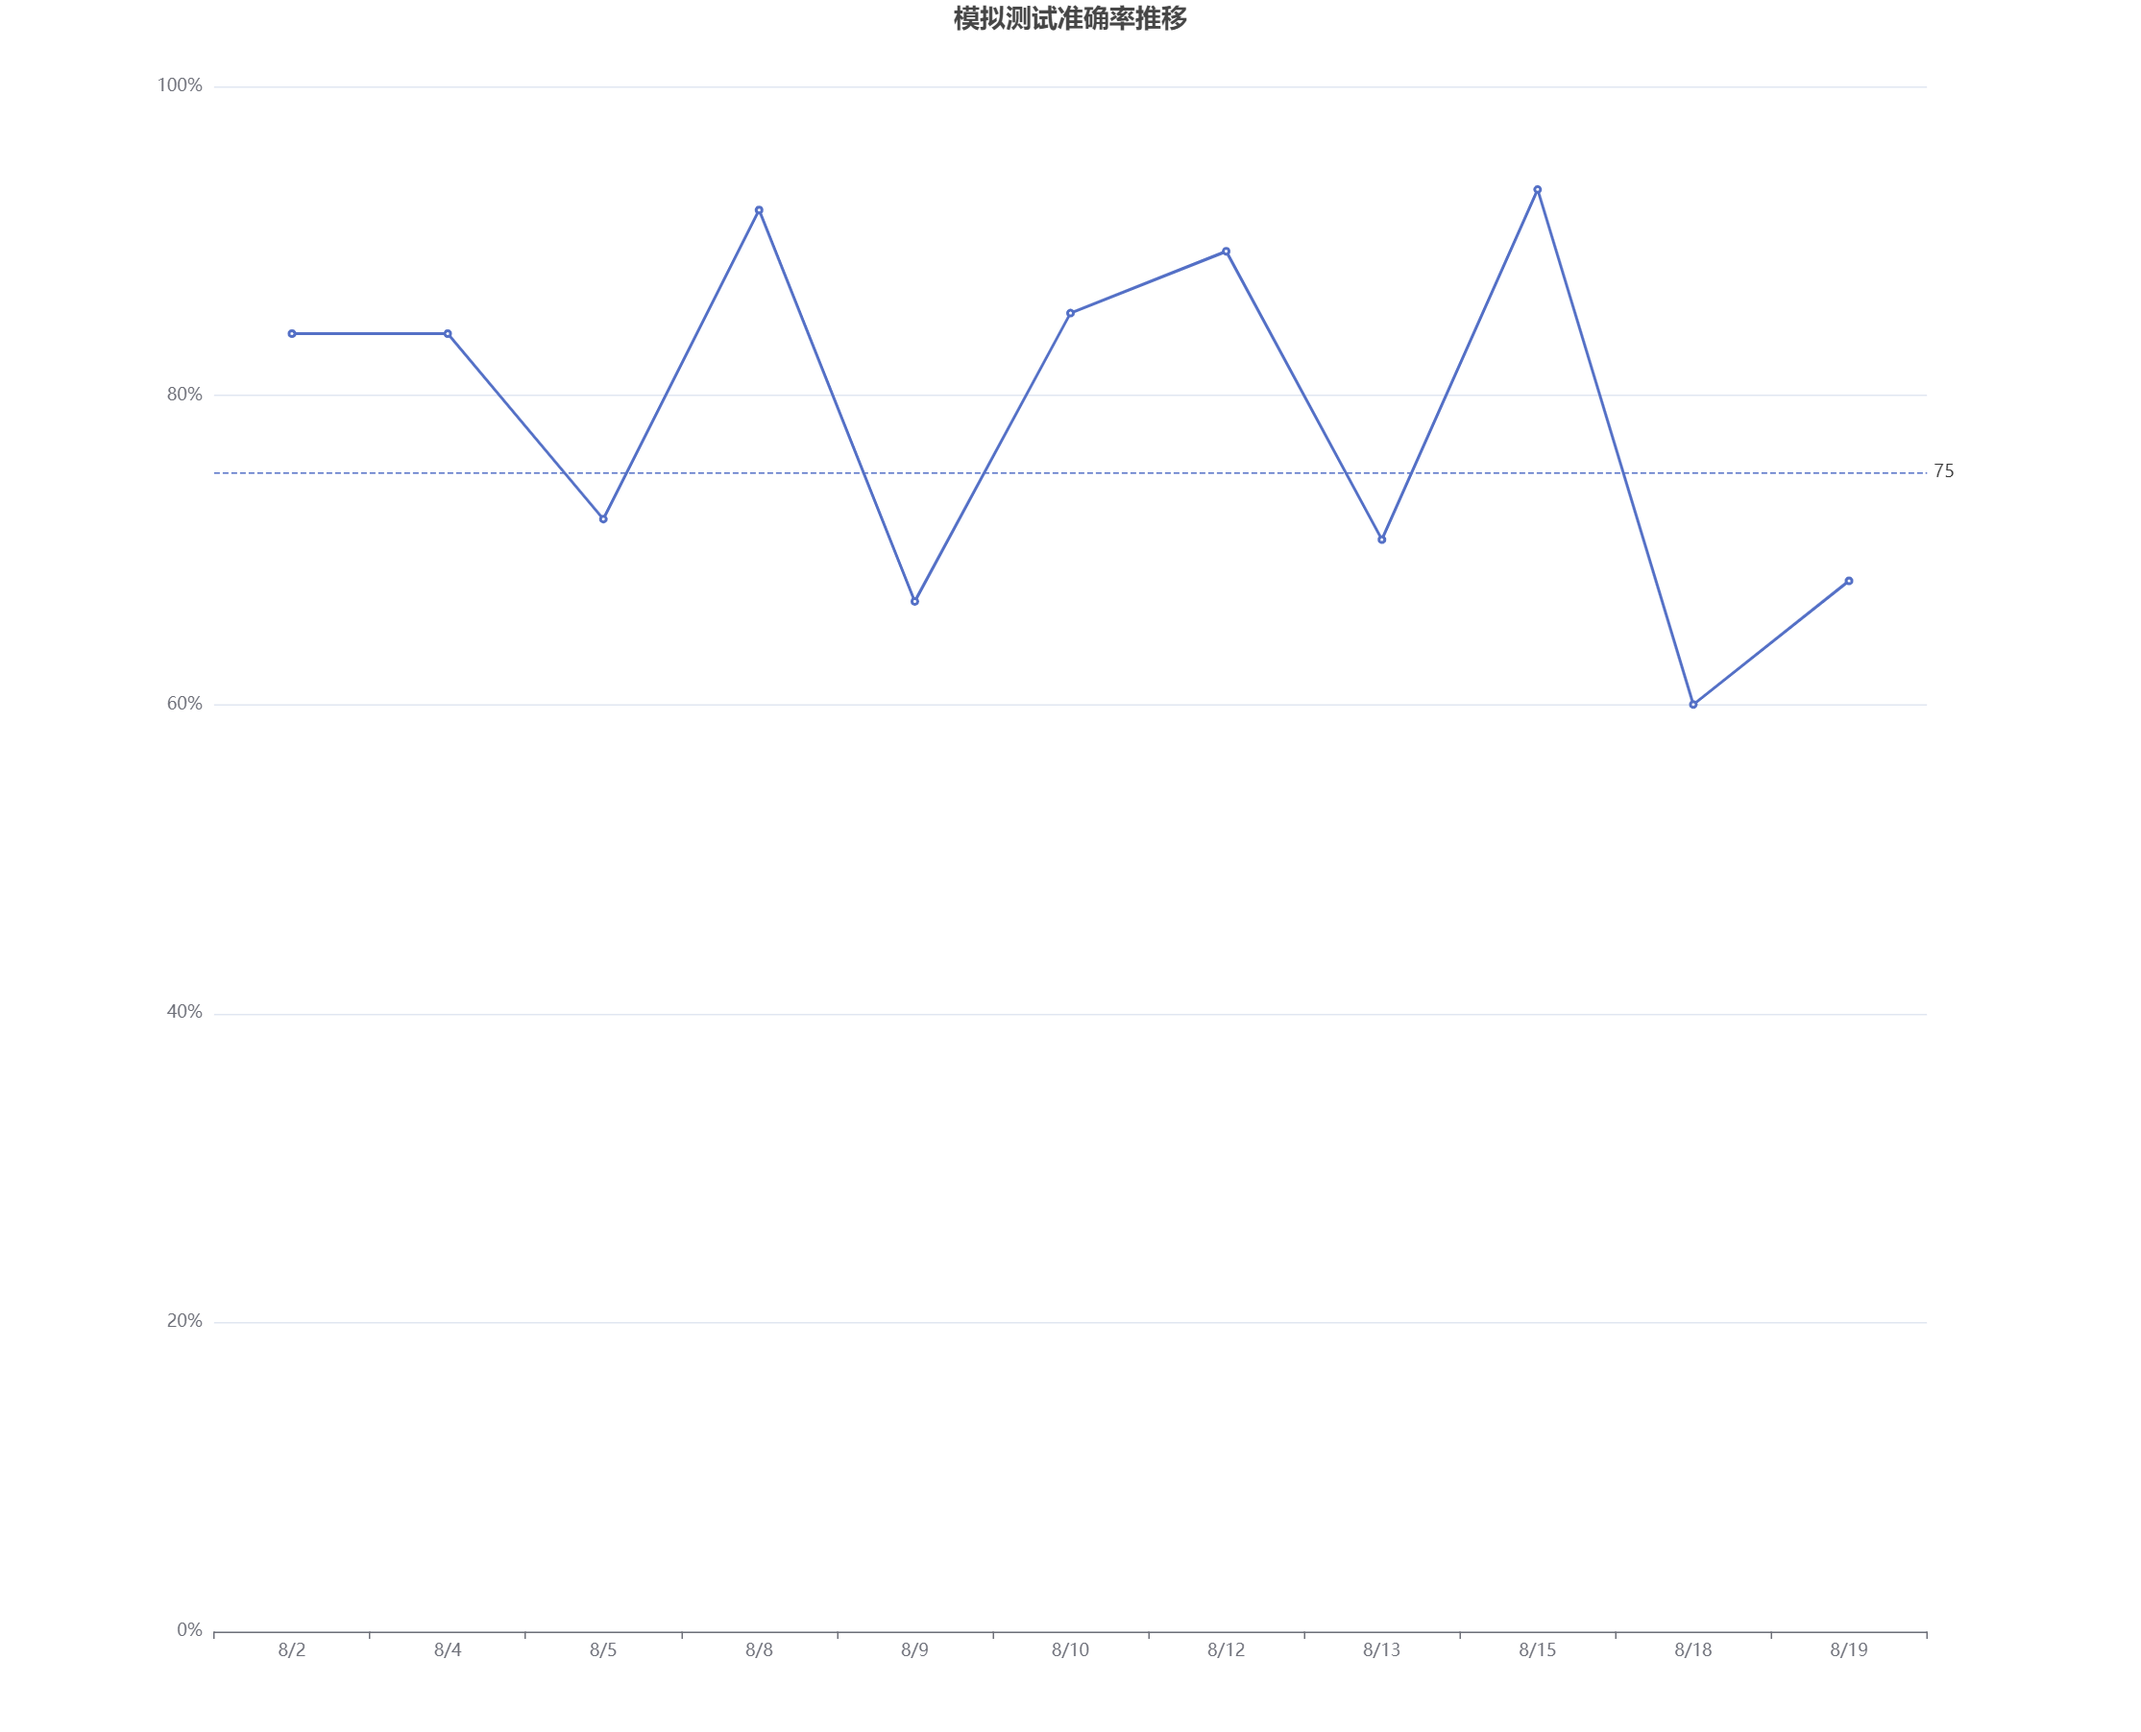
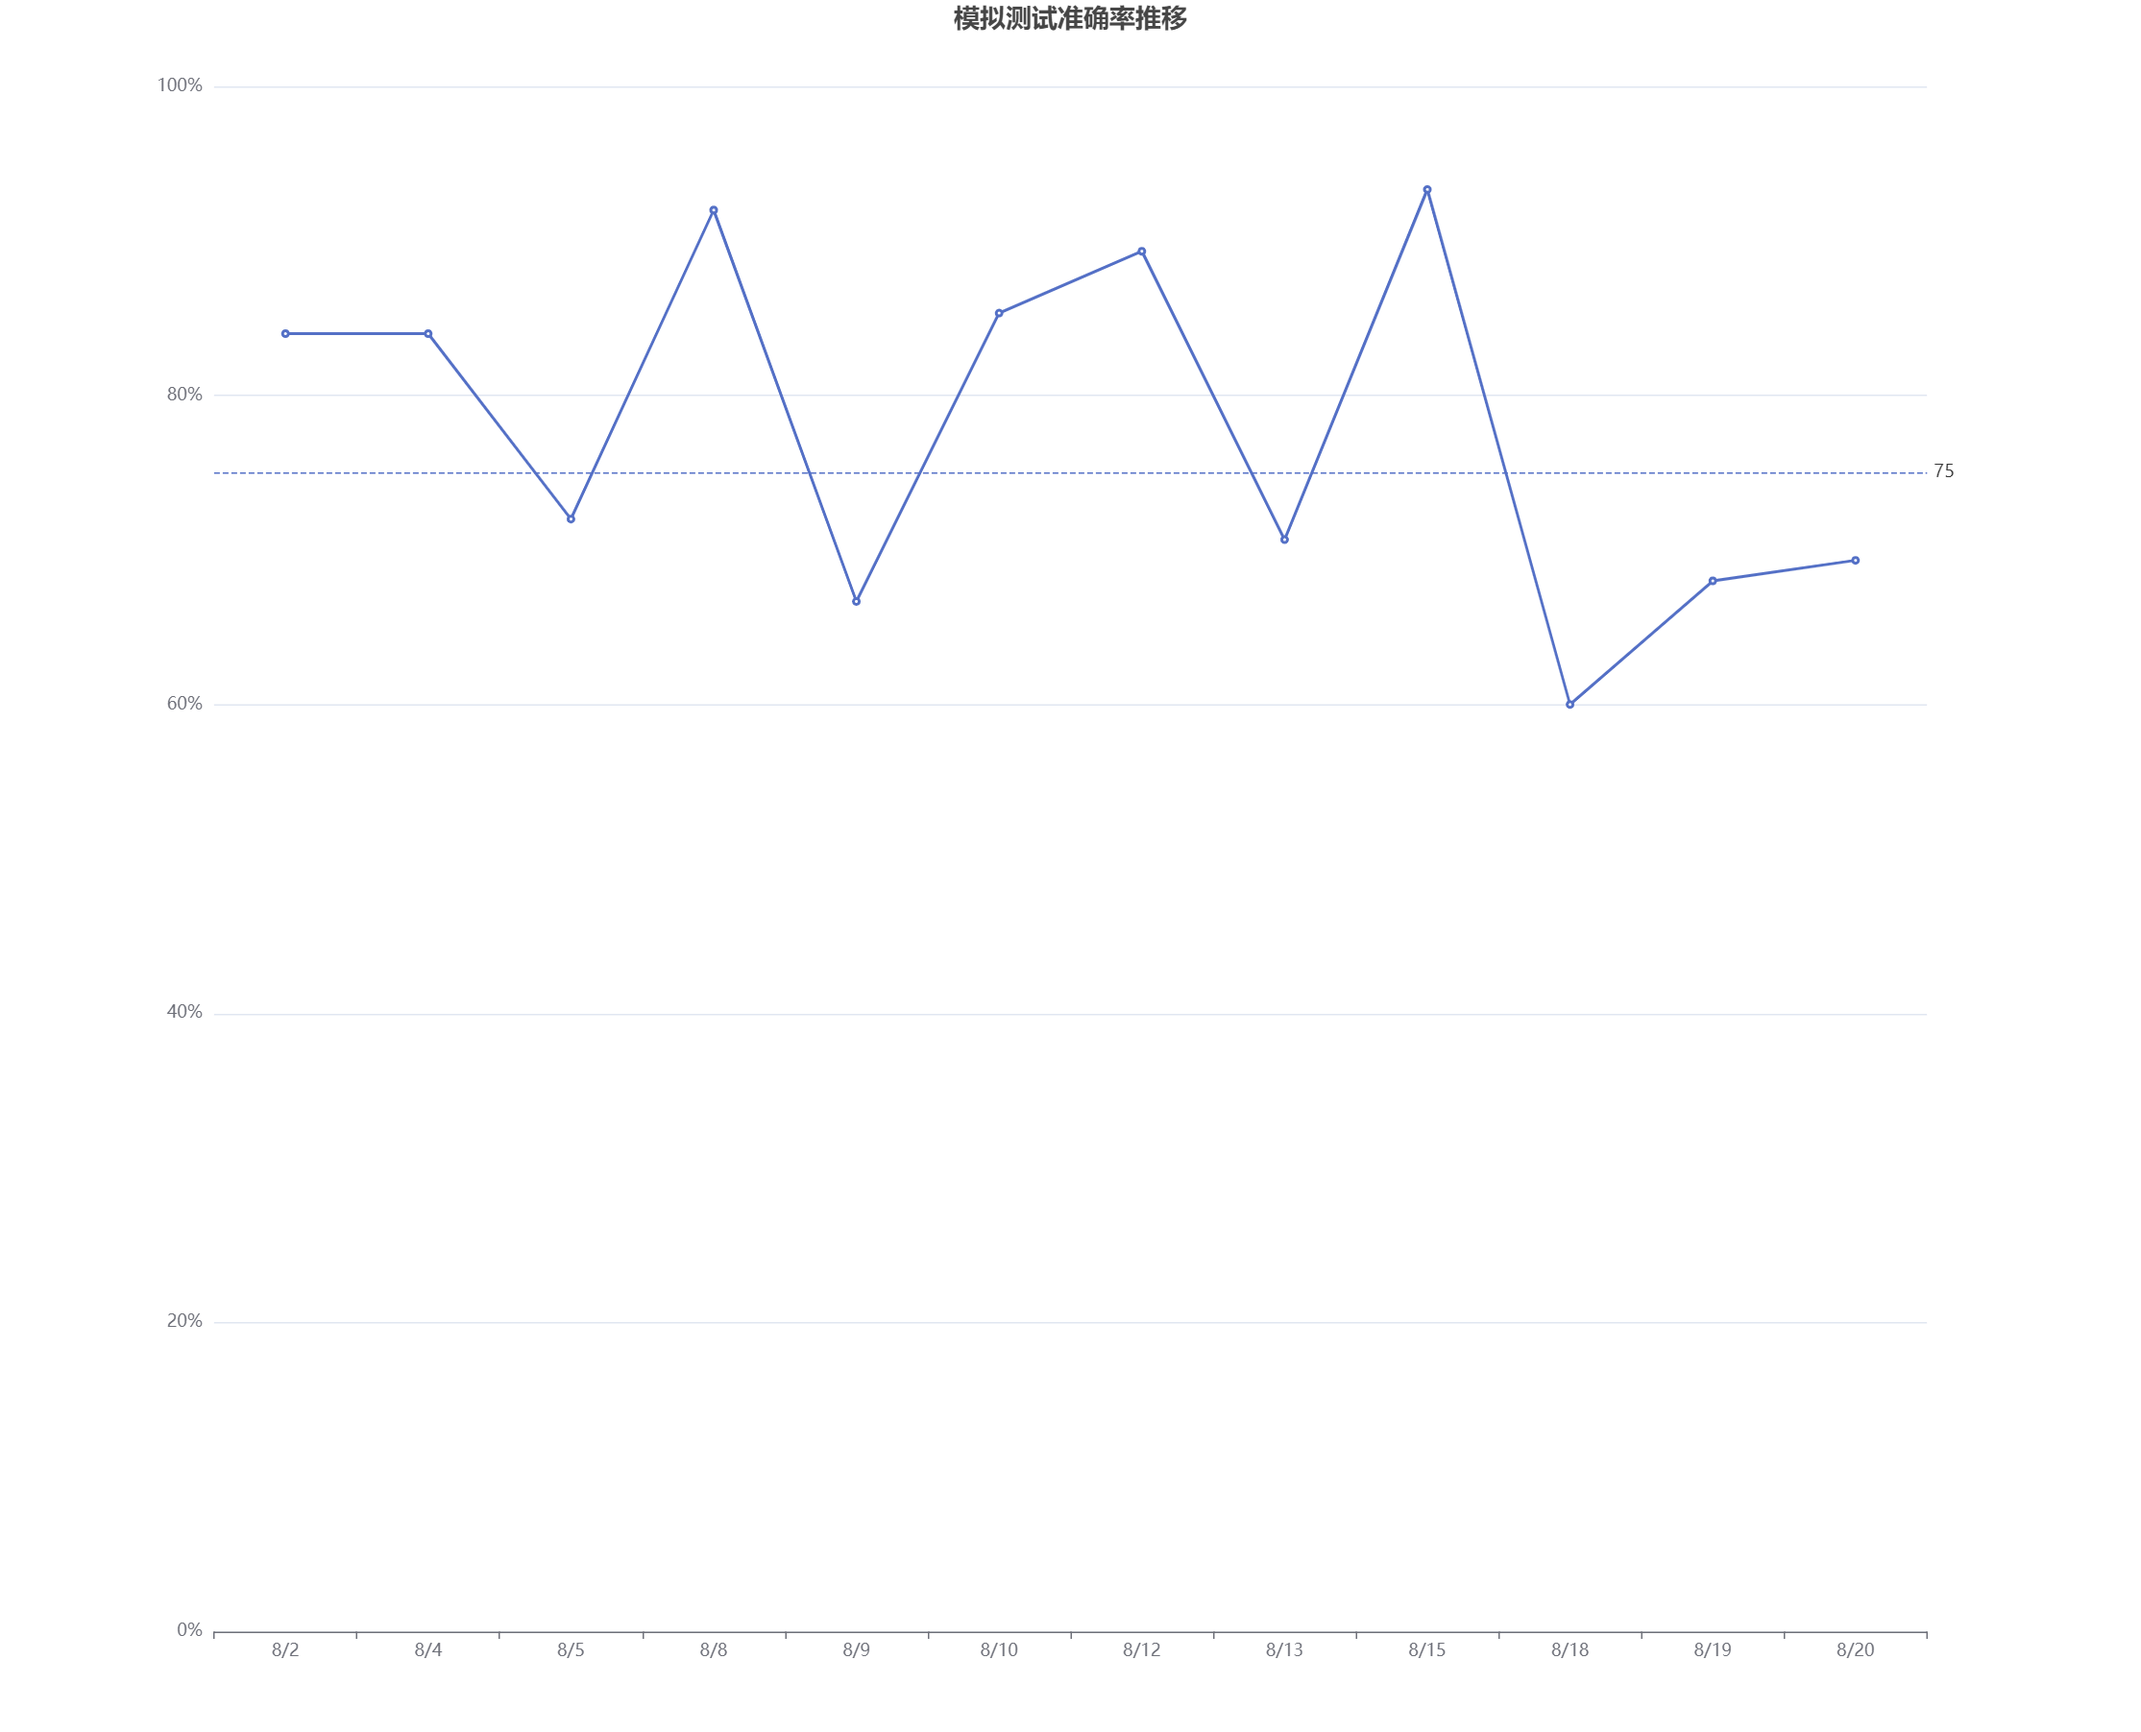
[update]up daily test result

diff --git a/src/dailyPractice.js b/src/dailyPractice.js
@@ -5,7 +5,7 @@ option = {
   },
   xAxis: {
     type: "category",
-    data: ["8/2", "8/4", "8/5", "8/8", "8/9", "8/10", "8/12", "8/13", "8/15", "8/18", "8/19"],
+    data: ["8/2", "8/4", "8/5", "8/8", "8/9", "8/10", "8/12", "8/13", "8/15", "8/18", "8/19", "8/20"],
   },
   yAxis: {
     type: "value",
@@ -15,7 +15,7 @@ option = {
   },
   series: [
     {
-      data: [84, 84, 72, 92, 66.67, 85.33, 89.33, 70.67, 93.33, 60.00, 68],
+      data: [84, 84, 72, 92, 66.67, 85.33, 89.33, 70.67, 93.33, 60.00, 68.00, 69.33],
       type: "line",
       markLine: {
         symbol: ["none", "none"],

diff --git a/README.md b/README.md
@@ -55,6 +55,11 @@
 - 301, 304, 307, 315, 327, 328, 331, 332, 333, 338, 340, 344, 345, 350, 351, 354, 357, 360, 362, 364, 367, 368, 369, 370
 - 正确率68.00%
 
+## 2021年8月20日测试错题
+
+- 152, 153, 160, 161, 164, 165, 166, 169, 172, 175, 176, 181, 194, 201, 208, 210, 211, 213, 214, 216, 219, 222, 223
+- 正确率69.33%
+
 ## 图表
 
 ![01](./img/testReview1.png)
